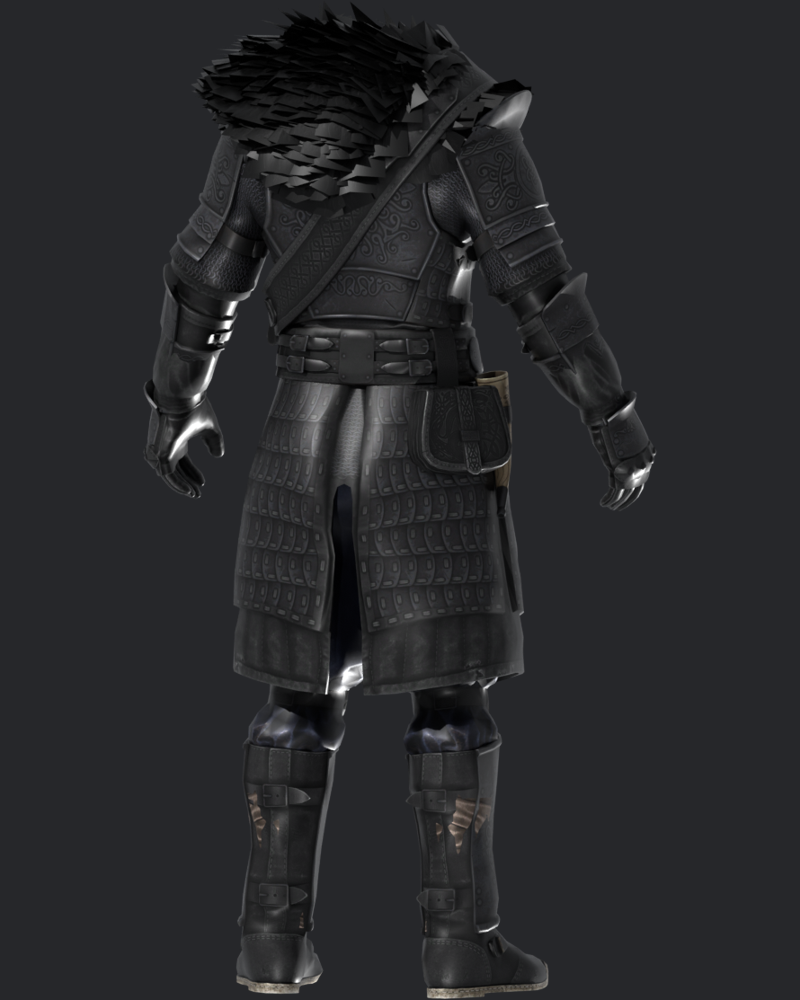
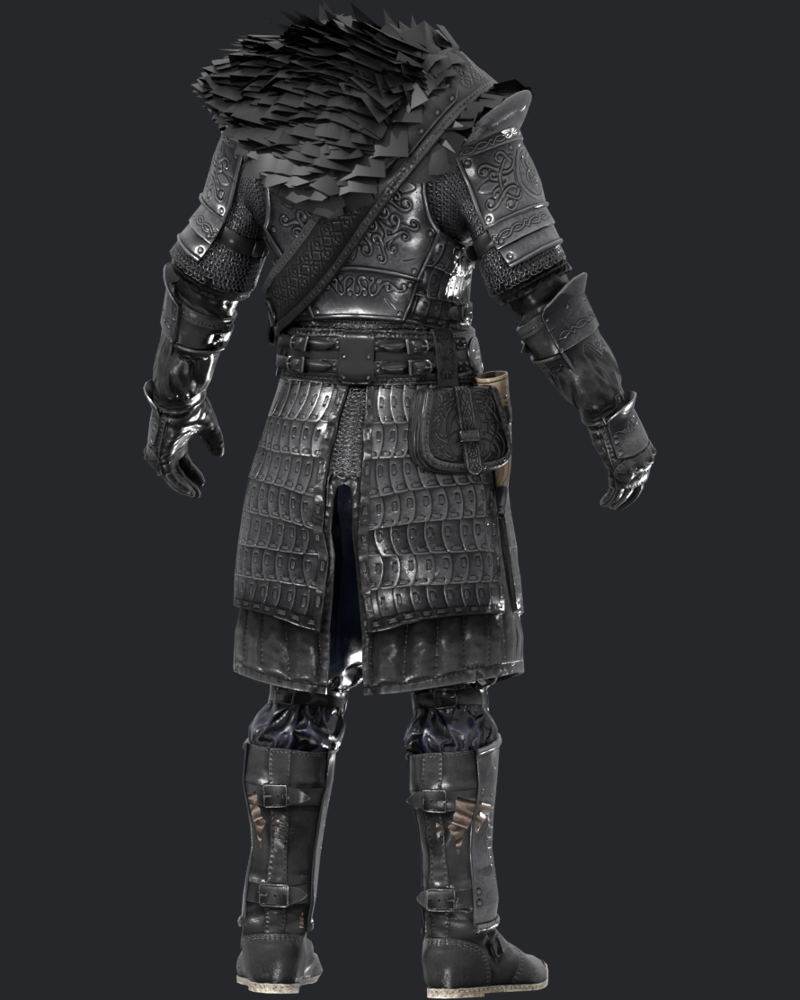
1.1.0: installer header with every weapon, the bow and the quiver of arrows
installer-images.py renders the bow and the arrow model (quiver with its six arrows, shown
upright) with the rest, hides the sheaths (weapons shown drawn) and shades like the game:
diffuse kept plus reflection through the _m mask against a sky-to-ground world, instead of
a metallic material under a flat grey world, which drew the steel black.

Changed region(s): [[0.1875, 0.0, 0.8125, 1.0]]

diff --git a/tools/installer-images.py b/tools/installer-images.py
@@ -21,9 +21,10 @@ SHOTS = {
     "w_waraxe": (["00 Core/meshes/NordicSkyforge/weapons/Axe.nif"], 0), "w_battleaxe": (["00 Core/meshes/NordicSkyforge/weapons/BattleAxe.nif"], 0),
     "w_dagger": (["00 Core/meshes/NordicSkyforge/weapons/Dagger.nif"], 0), "w_mace": (["00 Core/meshes/NordicSkyforge/weapons/Mace.nif"], 0),
     "w_shield": (["00 Core/meshes/NordicSkyforge/weapons/ShieldSteel.nif"], 0),
+    "w_warhammer": (["00 Core/meshes/NordicSkyforge/weapons/Warhammer.nif"], 0), "w_bow": (["00 Core/meshes/NordicSkyforge/weapons/Bow.nif"], 0),
+    # the arrow's model carries the quiver and its six arrows: the header shows them together
+    "w_arrows": (["00 Core/meshes/NordicSkyforge/weapons/Arrow.nif"], 0),
 }
-# weapon types not built yet are left out of the header until their mesh is in the package
-OPTIONAL = {"w_warhammer": (["00 Core/meshes/NordicSkyforge/weapons/Warhammer.nif"], 0)}
 
 BLENDER_SCRIPT = r'''
 import bpy, os, sys, json, math, addon_utils
@@ -33,7 +34,20 @@ from io_scene_nifly.pyn.pynifly import NifFile
 job = json.load(open(sys.argv[sys.argv.index("--") + 1]))
 sc = bpy.context.scene; sc.render.engine = "CYCLES"; sc.cycles.device = "CPU"; sc.cycles.samples = 48; sc.cycles.use_denoising = True
 sc.view_settings.view_transform = "Standard"; sc.render.film_transparent = True
-w = bpy.data.worlds.new("w"); sc.world = w; w.use_nodes = True; w.node_tree.nodes["Background"].inputs["Color"].default_value = (0.35, 0.36, 0.38, 1)
+w = bpy.data.worlds.new("w"); sc.world = w; w.use_nodes = True; bg = w.node_tree.nodes["Background"]; bg.inputs["Color"].default_value = (0.35, 0.36, 0.38, 1)
+# GAME-LIKE LIGHTING (the owner, 2026-11-15 07:26, on steel rendered black): Skyrim keeps a weapon's diffuse and ADDS an
+# environment reflection where the _m mask allows. A metallic material under a flat grey world has nothing to mirror and
+# draws steel near-black. So: no metallic, specular strength from the _m mask, and reflections see a sky-to-ground
+# gradient (the camera still sees the plain backdrop). The same shading as the review sheets' render_compare.py.
+nt_ = w.node_tree; tc = nt_.nodes.new("ShaderNodeTexCoord"); sep = nt_.nodes.new("ShaderNodeSeparateXYZ")
+ramp = nt_.nodes.new("ShaderNodeValToRGB"); ramp.color_ramp.elements[0].position = 0.35; ramp.color_ramp.elements[0].color = (0.10, 0.10, 0.11, 1)
+ramp.color_ramp.elements[1].position = 0.75; ramp.color_ramp.elements[1].color = (1.0, 1.0, 1.02, 1)
+mapr = nt_.nodes.new("ShaderNodeMapRange"); mapr.inputs["From Min"].default_value = -1.0; mapr.inputs["From Max"].default_value = 1.0
+nt_.links.new(tc.outputs["Generated"], sep.inputs[0]); nt_.links.new(sep.outputs["Z"], mapr.inputs["Value"]); nt_.links.new(mapr.outputs["Result"], ramp.inputs["Fac"])
+bg2 = nt_.nodes.new("ShaderNodeBackground"); nt_.links.new(ramp.outputs["Color"], bg2.inputs["Color"]); bg2.inputs["Strength"].default_value = 1.3
+lp = nt_.nodes.new("ShaderNodeLightPath"); mx = nt_.nodes.new("ShaderNodeMixShader")
+nt_.links.new(lp.outputs["Is Camera Ray"], mx.inputs["Fac"]); nt_.links.new(bg2.outputs[0], mx.inputs[1]); nt_.links.new(bg.outputs[0], mx.inputs[2])
+nt_.links.new(mx.outputs[0], nt_.nodes["World Output"].inputs["Surface"])
 mats = {}
 def material(d):
     if d in mats: return mats[d]
@@ -41,7 +55,18 @@ def material(d):
     p = os.path.join(job["tex"], d.replace("\\", os.sep))
     if os.path.isfile(p):
         t = nt.nodes.new("ShaderNodeTexImage"); t.image = bpy.data.images.load(p, check_existing=True); nt.links.new(t.outputs["Color"], b.inputs["Base Color"])
-    b.inputs["Metallic"].default_value = 0.55; b.inputs["Roughness"].default_value = 0.42
+    pn = p[:-4] + "_n.dds"
+    if os.path.isfile(pn):
+        tn = nt.nodes.new("ShaderNodeTexImage"); tn.image = bpy.data.images.load(pn, check_existing=True); tn.image.colorspace_settings.name = "Non-Color"
+        nm = nt.nodes.new("ShaderNodeNormalMap"); nt.links.new(tn.outputs["Color"], nm.inputs["Color"]); nt.links.new(nm.outputs["Normal"], b.inputs["Normal"])
+    b.inputs["Metallic"].default_value = 0.0
+    pm = p[:-4] + "_m.dds"
+    if os.path.isfile(pm):
+        tm = nt.nodes.new("ShaderNodeTexImage"); tm.image = bpy.data.images.load(pm, check_existing=True); tm.image.colorspace_settings.name = "Non-Color"
+        sm = nt.nodes.new("ShaderNodeMath"); sm.operation = "MULTIPLY_ADD"; sm.inputs[1].default_value = 0.9; sm.inputs[2].default_value = 0.3
+        nt.links.new(tm.outputs["Color"], sm.inputs[0]); nt.links.new(sm.outputs[0], b.inputs["Specular IOR Level"]); b.inputs["Roughness"].default_value = 0.3
+    else:
+        b.inputs["Roughness"].default_value = 0.5
     mats[d] = m; return m
 for name, (paths, yaw) in job["shots"].items():
     for o in list(bpy.data.objects): bpy.data.objects.remove(o)
@@ -56,7 +81,7 @@ for name, (paths, yaw) in job["shots"].items():
         for o in [o for o in bpy.data.objects if o not in before]:
             if o.type != "MESH": continue
             nm = o.name if o.name in tex else o.name.split(".")[0]; d = tex.get(nm, "")
-            if "blood" in (nm + d).lower() or not d.lower().startswith("textures\\nordicskyforge"): o.hide_render = True; continue
+            if "blood" in (nm + d).lower() or nm == "Scb" or not d.lower().startswith("textures\\nordicskyforge"): o.hide_render = True; continue
             o.data.materials.clear(); o.data.materials.append(material(d)); objs.append(o)
     for L, rot, e in (("key", (math.radians(40), math.radians(-35), 0), 3.0), ("rim", (math.radians(-55), math.radians(145), 0), 2.0), ("fill", (math.radians(60), math.radians(160), 0), 1.0)):
         l = bpy.data.lights.new(L, "SUN"); l.energy = e; lo = bpy.data.objects.new(L, l); lo.rotation_euler = rot; sc.collection.objects.link(lo)
@@ -93,8 +118,6 @@ def main(pkg):
     from PIL import Image, ImageDraw
     work = os.path.join(pkg, "_images_work"); os.makedirs(work, exist_ok=True)
     shots = {k: ([os.path.join(pkg, p) for p in ps], yaw) for k, (ps, yaw) in SHOTS.items()}
-    for k, (ps, yaw) in OPTIONAL.items():
-        if all(os.path.isfile(os.path.join(pkg, p)) for p in ps): shots[k] = ([os.path.join(pkg, p) for p in ps], yaw)
     for k, (ps, _) in shots.items():
         for p in ps:
             if not os.path.isfile(p): raise SystemExit("installer-images: the package has no %s" % p)
@@ -107,14 +130,16 @@ def main(pkg):
     os.makedirs(IMG, exist_ok=True)
     bg = (38, 39, 42)
     def card(name, size):
-        im = Image.open(os.path.join(work, name + ".png")).convert("RGBA"); box = im.getbbox(); im = im.crop(box) if box else im
+        im = Image.open(os.path.join(work, name + ".png")).convert("RGBA")
+        if name == "w_arrows": im = im.rotate(180)     # the quiver model runs mouth-down along y: shown as it hangs, arrows up
+        box = im.getbbox(); im = im.crop(box) if box else im
         im.thumbnail(size); c = Image.new("RGB", size, bg); c.paste(im, ((size[0] - im.width) // 2, (size[1] - im.height) // 2), im); return c
     for name in ("himbo", "cbbe3ba"):
         card(name, (800, 1000)).save(os.path.join(IMG, name + ".png"))
-    # header: the armour and the twelve pieces in a row
-    order = [k for k in ["outfit", "w_sword", "w_greatsword", "w_waraxe", "w_battleaxe", "w_dagger", "w_shield", "w_mace", "w_warhammer"] if k in shots]
+    # header: the armour and every weapon in a row (the bow and the quiver of arrows included)
+    order = ["outfit", "w_sword", "w_greatsword", "w_waraxe", "w_battleaxe", "w_dagger", "w_mace", "w_warhammer", "w_bow", "w_arrows", "w_shield"]
     H = 520; head = Image.new("RGB", (1800, H + 60), bg); x = 10
-    widths = {k: (260 if k == "outfit" else 230 if k == "w_shield" else 140) for k in order}
+    widths = {k: (260 if k == "outfit" else 230 if k == "w_shield" else 170 if k == "w_bow" else 150 if k == "w_arrows" else 140) for k in order}
     scale = (1780 - 10 * (len(order) - 1)) / sum(widths.values())
     for k in order:
         w = int(widths[k] * scale); head.paste(card(k, (w, H)), (x, 10)); x += w + 10

diff --git a/CHANGELOG.md b/CHANGELOG.md
@@ -7,7 +7,7 @@
 - Skyforge Steel Arrows, with their quiver and the arrow in flight - the Nordic Ebony arrow and quiver re-made from NordwarUA's own steel war axe and steel dagger: the axe's spike above its bit as the head, its back fang as three vanes, its braided grip as the shaft, a slotted steel nock (the slot across the arrow, square to the cock vane) with the axe's collar ring where it meets the shaft; the quiver is the steel dagger's scabbard scaled up, with the collar ring round its mouth and the back fang as a plate, decorated side out and the ring against the back, holding six of the same arrows (one shape each, so the game hides them one by one as they are used). Head, vanes and collar are closed so no light shows through. A new arrow (the game has no Skyforge Steel arrow): the vanilla Steel Arrow with the weapons' Skyforge pattern - damage 13, value 3 - and its own projectile, forged at the Skyforge with Steel Smithing, 24 from a steel ingot and a firewood.
 - A Skyforge Steel Warhammer - the Nordic Ebony warhammer's design re-made from NordwarUA's own STEEL battle axe: the battle axe without its bit (haft, socket, top spike and back fang as they are), the axe's steel butt - its studded cuff and moulded end cap - turned forward as the hammer, cut flat at its widest point and carried on as a short round extension of the cap's own moulding with a 45-degree lip, ending in a flat circular striking face of square pyramid teeth (the Ebony face's 193 teeth, each facet with its own vertices so it lights as teeth, on blade steel whose normal map is flat), and the axe's collar ring where the hammer meets the socket. Same face size and reach as the Ebony warhammer. A new record: the vanilla Steel Warhammer with the game's two-handed Skyforge uplift (damage 23, value 160, weight 25), forged at the Skyforge with Steel Smithing from the Steel Warhammer's ingredients, tempered with a steel ingot; its own first-person model and static.
 - A Skyforge Steel Mace - the first of the weapon types the game has no Skyforge version of (the same set the Nordic Ebony replacer gained: mace, warhammer, bow, arrows and quiver), built one at a time. It is the Nordic Ebony mace's recipe re-made from NordwarUA's own STEEL war axe in Legacy of Ysgramor: the axe's haft, socket, collar, braided grip and pommel; a second twist-langet tube as the head core; the axe's knotwork bit six times round it as flanges; the axe's collar ring as the top and lower bands; and the axe's spike as the crown point - each piece keeping its own texture on the steel axe's atlas (Xtudo's Wolf Black, which this mod already ships; no new texture). Sized to match the Ebony mace's head. A new record (the game has no Skyforge mace): the vanilla Steel Mace with the game's own Skyforge uplift over Steel (damage 13, value 90, weight 14), forged at the Skyforge with Steel Smithing from the Steel Mace's ingredients and tempered with a steel ingot like the Skyforge war axe. It has its own first-person model and static. Built by tools/build-missing-weapons.py from the Legacy of Ysgramor download and the game's own meshes at build time - the repository carries no art.
-- Installer pictures, rendered from this mod's own built meshes: the header (the outfit and every weapon) and the HIMBO and CBBE 3BA options.
+- Installer pictures, rendered from this mod's own built meshes: the header (the outfit and every weapon - sword, greatsword, war axe, battleaxe, dagger, mace, warhammer, bow, the quiver of arrows and the shield - drawn, with the steel lit as the game lights it) and the HIMBO and CBBE 3BA options.
 
 ### Changed
 - The Skyforge Steel Shield is the size of the Truly Nordic Carved "Shield - Clean" (the face 62.2 -> 52.8 units, x0.848), as the Nordic Ebony replacer's shield was made in 1.1.0. Scaled about the grip, so it sits where it did on the arm and on the back; the collision shrinks with it. Done at build time on Legacy of Ysgramor's own file (the steel shield is the same mesh as the ebony one, so the same tool is used unchanged).
